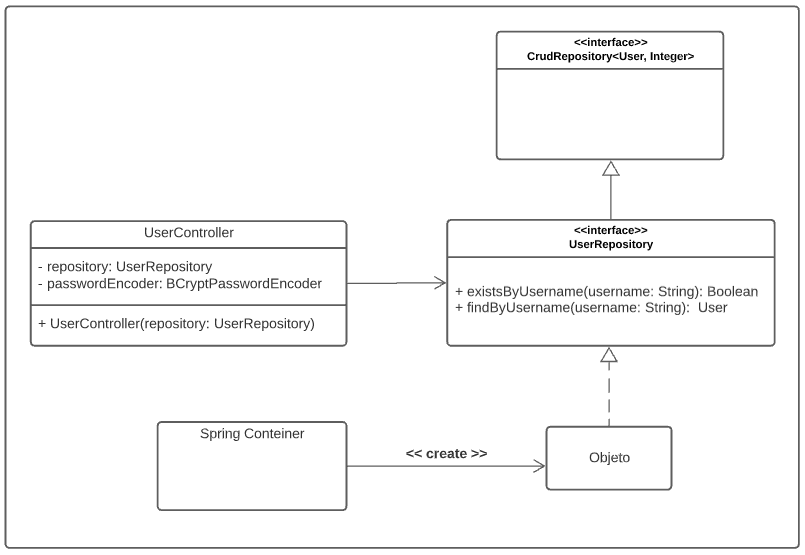
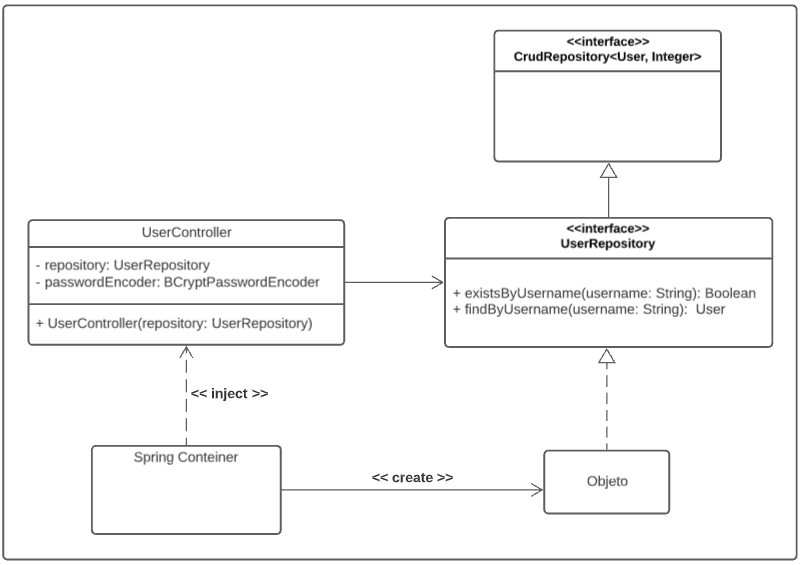
Adicao do grasp Inversao de Controle

Changed region(s): [[0.0, 0.0, 0.9975, 1.0], [0.0935, 0.7351, 0.8416, 0.9495], [0.2182, 0.6739, 0.3429, 0.7045]]

diff --git a/docs/padroes/grasps.md b/docs/padroes/grasps.md
@@ -11,7 +11,7 @@
 | 28.03.2021 | 1.0 | Edição e revisão da versão 1.0 | Erick Giffoni |
 | 01.04.2021 | 1.1 | Refatoração do documento | Isabella Carneiro |
 | 05.04.2021 | 1.2 | Adição conteúdo Indireção | Rafaella Junqueira<br>Geraldo Victor<br>Kalebe Lopes |
-| 07.04.2021 | 1.3 | Adição do conteúdo Inversão de controle | Rafaella Junqueira |
+| 07.04.2021 | 1.3 | Adição do conteúdo Inversão de controle | Rafaella Junqueira<br>Geraldo Victor<br>Kalebe Lopes|
 
 ### Participantes
 
@@ -114,8 +114,15 @@ componentes que não mais dependem um do outro: ambos dependem da indireção</p
 
 ### Aplicações no projeto
 <div align="justify"><br>
-<p></p>
+<p>A inverção de controle pode ser exemplificada utilizando a classe ServicoService, do frontend, que instancia via construtor a classe HttpClient. Porém, os métodos do HttpClient é chamado através pela classe ServicoUpdateComponent que não conhece a implementação dos mesmos. Deste modo, pode-se representar a aplicação do padrão de acordo com o seguinte diagrama UML:</p>
 </div>
+
+[<div align="center"><img src="../../img/padroes/uml-inversao.png"></div>](../../img/padroes/uml-inversao.png)
+<figcaption align='center'>
+    <b>Figura 4 - Representação da inversão de controle na classe ServicoService</b>
+    <br>
+    <small>Autores: Rafaella Junqueira e Garaldo Victor</small>
+</figcaption>
 
 ## Referências
 <br>
@@ -127,6 +134,8 @@ DEVMEDIA, **Desenvolvimento com qualidade com GRASP** Disponível em [https://ww
 
 DEVMEDIA, **Padrão MVC - Java Magazine** Disponível em [https://www.devmedia.com.br/padrao-mvc-java-magazine/21995#2](https://www.devmedia.com.br/padrao-mvc-java-magazine/21995#2) Acesso em 1 de abril de 2021.
 
-DEVMEDIA, **Java Spring MVC: Criando Aplicações Web em Java** Disponível em [https://www.devmedia.com.br/java-spring-mvc-criando-aplicacoes-web-em-java/31521](https://www.devmedia.com.br/java-spring-mvc-criando-aplicacoes-web-em-java/31521) Acesso em 1 de abril de 2021.
+DEVMEDIA, **Java Spring MVC: Criando Aplicações Web em Java** Disponível em [https://www.devmedia.com.br/java-spring-mvc-criando-aplicacoes-web-em-java/31521](https://www.devmedia.com.br/java-spring-mvc-criando-aplicacoes-web-em-java/31521) Acesso em 3 de abril de 2021.
 
 **Inversão de Controle** Disponível em [http://www.linhadecodigo.com.br/artigo/3418/inversao-de-controle-ioc-e-injecao-de-dependencia-di-diferencas.aspx#:~:text=Invers%C3%A3o%20de%20Controle%20ou%20Inversion,outra%20classe%2C%20interface%2C%20componente%2C](http://www.linhadecodigo.com.br/artigo/3418/inversao-de-controle-ioc-e-injecao-de-dependencia-di-diferencas.aspx#:~:text=Invers%C3%A3o%20de%20Controle%20ou%20Inversion,outra%20classe%2C%20interface%2C%20componente%2C) Acesso em 
+
+CASTILHO, Robson, **Princípios SOLID: Princípio da Inversão de Dependência (DIP)** Disponível em [https://robsoncastilho.com.br/2013/05/01/principios-solid-principio-da-inversao-de-dependencia-dip/](https://robsoncastilho.com.br/2013/05/01/principios-solid-principio-da-inversao-de-dependencia-dip/) Acesso em 5 de abril de 2021.
